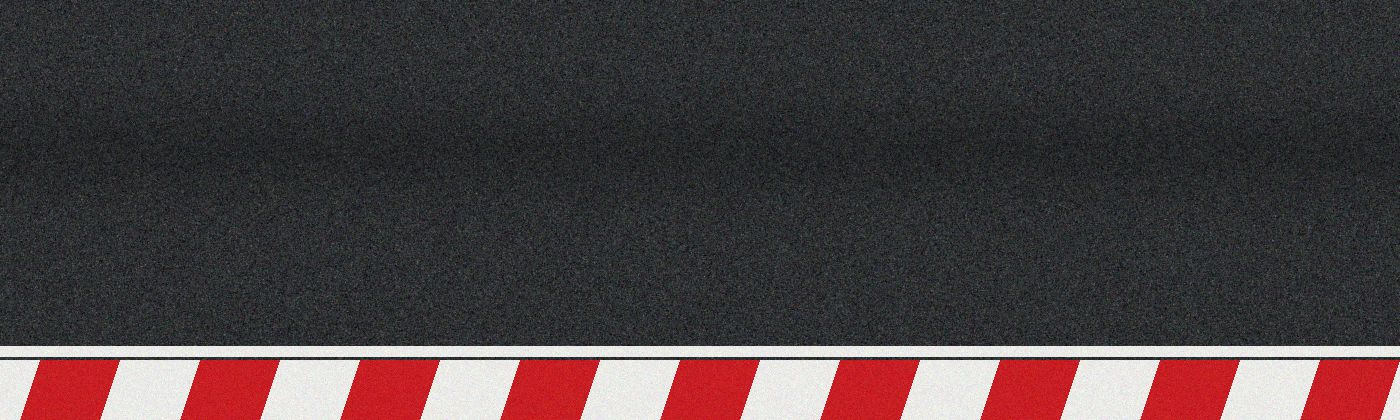
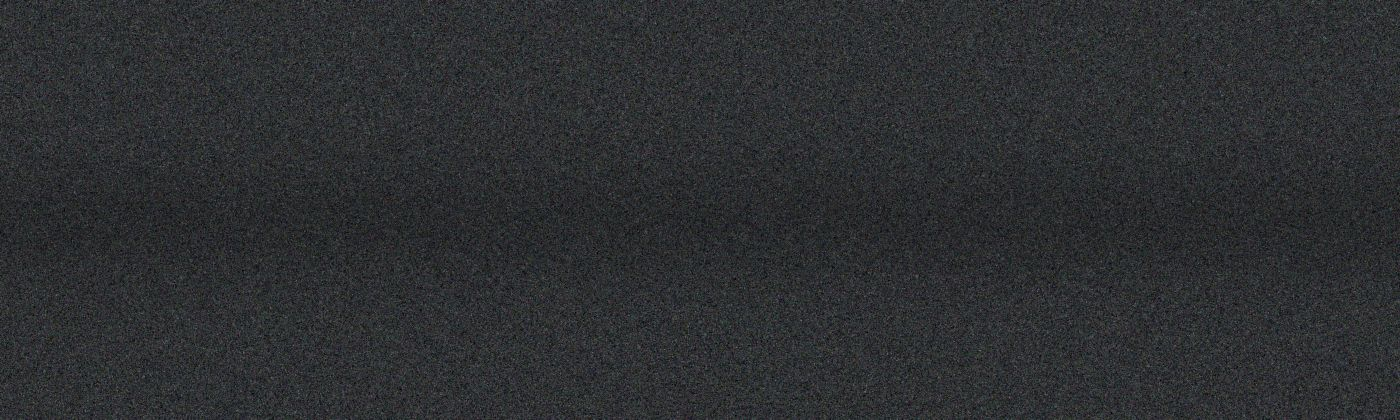
Tar box: plain tarmac, no kerb
Claude-Session: https://claude.ai/code/session_01ByP4zSzh3YPNaF6PQpPMT9

Changed region(s): [[0.0, 0.0, 1.0, 1.0]]

diff --git a/index.html b/index.html
@@ -648,7 +648,7 @@ html[data-mode="motorsport"] .modesw button.on{background:#E8A317;color:#111}
 .pbox .pp{text-shadow:0 1px 2px rgba(0,0,0,.6)}.pickq{font-size:1.5rem!important}
 .tex-gravel{background:linear-gradient(90deg,rgba(20,14,8,.78),rgba(20,14,8,.35)),url(/img/tex-gravel.jpg) center/cover!important}
 .tex-tar{background:linear-gradient(90deg,rgba(0,0,0,.55),rgba(0,0,0,.15)),url(/img/tex-tarmac.jpg) center bottom/cover!important}
-.pbox .pp{font-size:.92rem;max-width:58ch}.pbox.tex-tar{padding-bottom:34px}.pbox .pgo{color:#fff}
+.pbox .pp{font-size:.92rem;max-width:58ch}.pbox .pgo{color:#fff}
 .spstrip{display:none!important}
 .adrow{display:grid;grid-template-columns:1fr 1fr;gap:12px;margin:10px 0 4px;order:9;flex-basis:100%;width:100%}.adcard{display:flex;gap:14px;align-items:center;background:var(--panel);border:1px solid var(--line);border-left:5px solid var(--gold);border-radius:10px;padding:10px 14px 10px 10px;color:var(--ink);text-decoration:none;transition:border-color .15s}.adcard:hover{border-color:var(--gold)}.adcard img{width:92px;height:92px;object-fit:cover;border-radius:8px;flex:none;background:#fff}.adt{display:flex;flex-direction:column;gap:2px}.adt em{font:600 .7rem var(--f-body,sans-serif);font-style:normal;text-transform:uppercase;letter-spacing:.08em;color:var(--muted)}.adt b{font:700 1.45rem/1.05 var(--f-display,"Barlow Condensed",sans-serif);text-transform:uppercase;color:var(--gold)}.adt span{font-size:.92rem}.adt i{font-style:normal;font-weight:700;margin-top:2px}
 @media(max-width:640px){.adrow{grid-template-columns:1fr}.adcard img{width:72px;height:72px}.adt b{font-size:1.2rem}}

diff --git a/src/page.html b/src/page.html
@@ -648,7 +648,7 @@ html[data-mode="motorsport"] .modesw button.on{background:#E8A317;color:#111}
 .pbox .pp{text-shadow:0 1px 2px rgba(0,0,0,.6)}.pickq{font-size:1.5rem!important}
 .tex-gravel{background:linear-gradient(90deg,rgba(20,14,8,.78),rgba(20,14,8,.35)),url(/img/tex-gravel.jpg) center/cover!important}
 .tex-tar{background:linear-gradient(90deg,rgba(0,0,0,.55),rgba(0,0,0,.15)),url(/img/tex-tarmac.jpg) center bottom/cover!important}
-.pbox .pp{font-size:.92rem;max-width:58ch}.pbox.tex-tar{padding-bottom:34px}.pbox .pgo{color:#fff}
+.pbox .pp{font-size:.92rem;max-width:58ch}.pbox .pgo{color:#fff}
 .spstrip{display:none!important}
 .adrow{display:grid;grid-template-columns:1fr 1fr;gap:12px;margin:10px 0 4px;order:9;flex-basis:100%;width:100%}.adcard{display:flex;gap:14px;align-items:center;background:var(--panel);border:1px solid var(--line);border-left:5px solid var(--gold);border-radius:10px;padding:10px 14px 10px 10px;color:var(--ink);text-decoration:none;transition:border-color .15s}.adcard:hover{border-color:var(--gold)}.adcard img{width:92px;height:92px;object-fit:cover;border-radius:8px;flex:none;background:#fff}.adt{display:flex;flex-direction:column;gap:2px}.adt em{font:600 .7rem var(--f-body,sans-serif);font-style:normal;text-transform:uppercase;letter-spacing:.08em;color:var(--muted)}.adt b{font:700 1.45rem/1.05 var(--f-display,"Barlow Condensed",sans-serif);text-transform:uppercase;color:var(--gold)}.adt span{font-size:.92rem}.adt i{font-style:normal;font-weight:700;margin-top:2px}
 @media(max-width:640px){.adrow{grid-template-columns:1fr}.adcard img{width:72px;height:72px}.adt b{font-size:1.2rem}}
